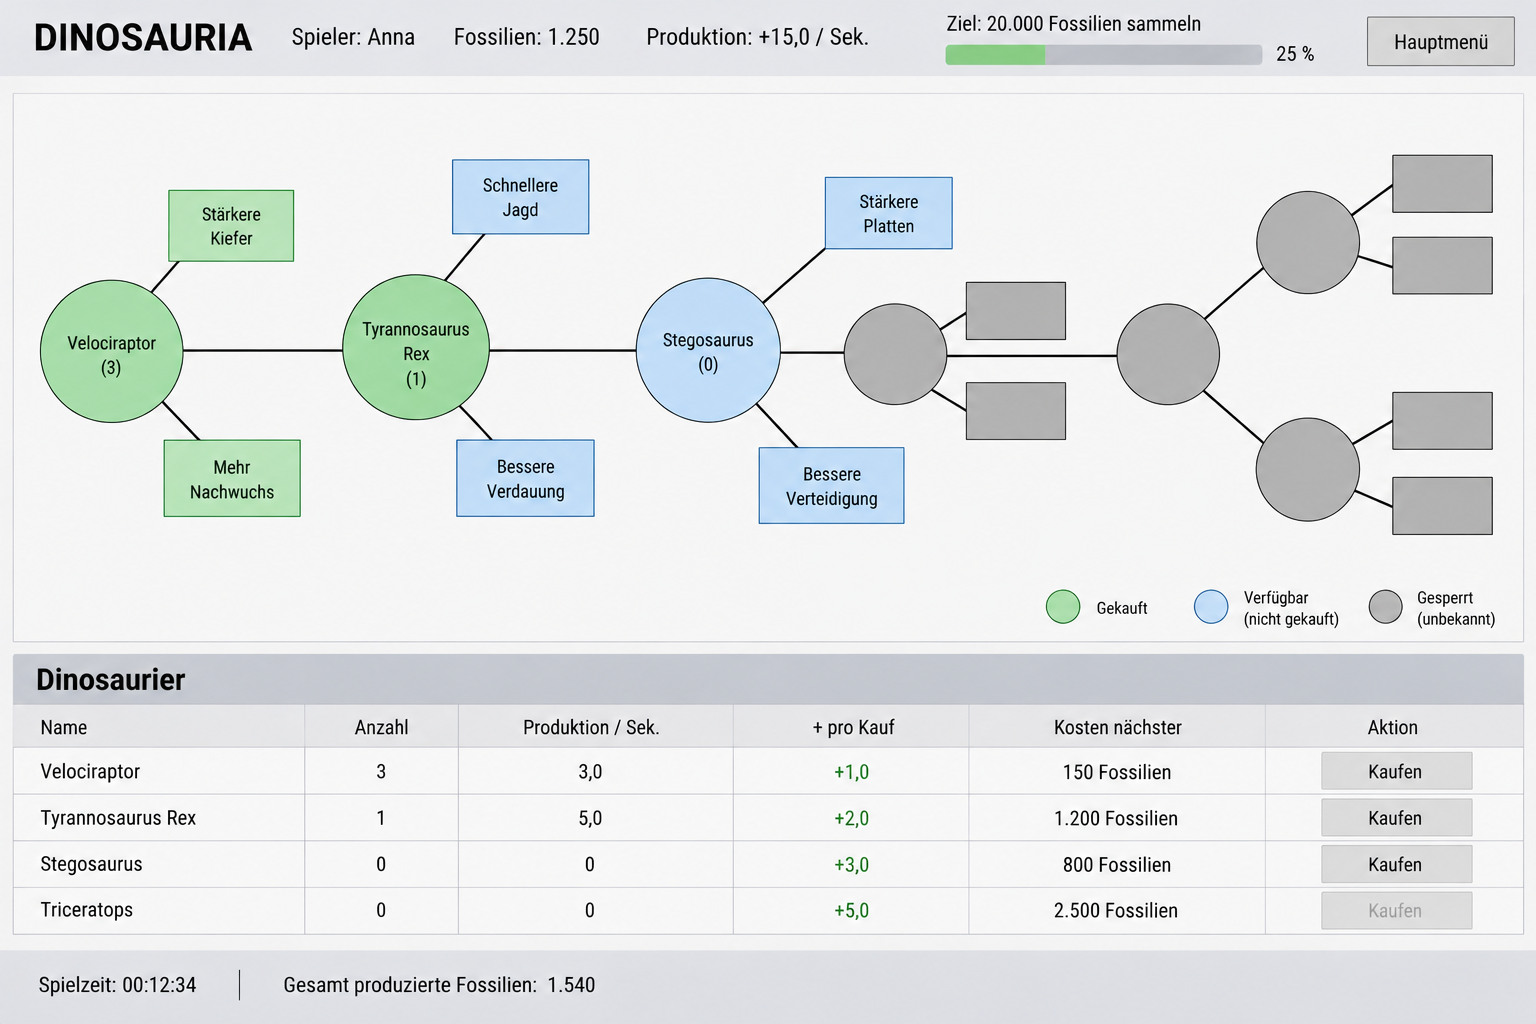
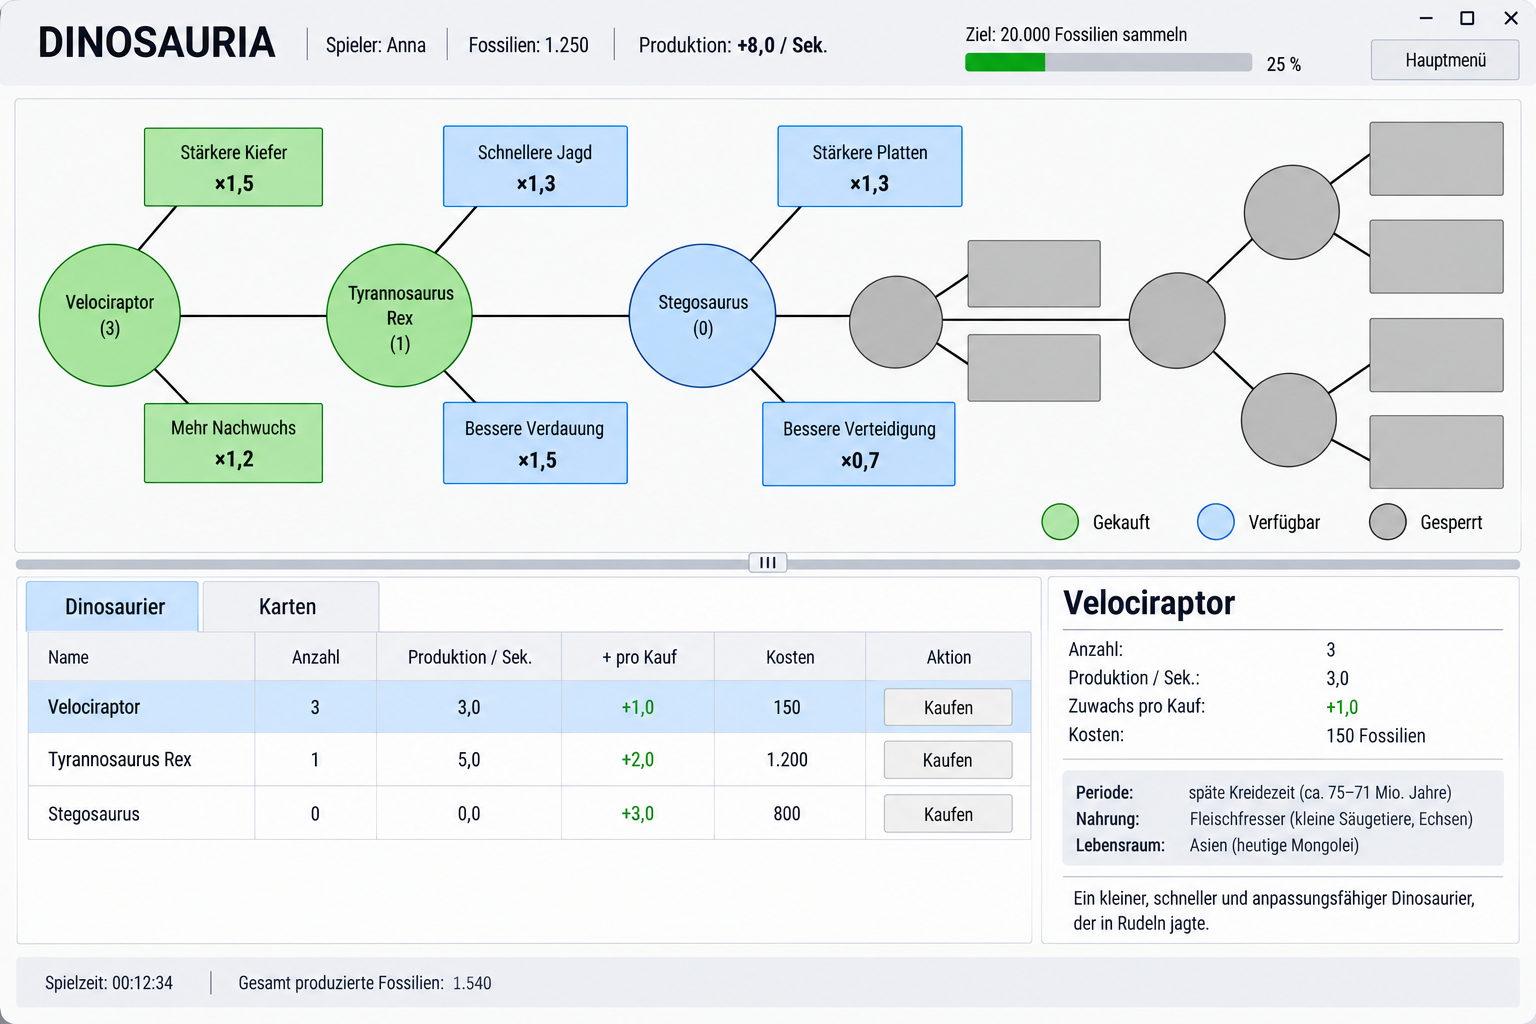
Dokumentationsänderungen

diff --git a/Dinosauria/docs/Dinosauria_Wireframe_Entwurf.md b/Dinosauria/docs/Dinosauria_Wireframe_Entwurf.md
@@ -57,25 +57,34 @@ Die Spielübersicht besteht aus einer Kopfzeile, dem Spielziel, dem Spielfeld, d
 
 ### 3.3 Dinosaurier-Tabelle
 
-Unter dem Spielfeld befindet sich eine Tabelle. Sie zeigt nur gekaufte Dinosaurierarten sowie freigeschaltete Arten, die gekauft werden können.
+Unterhalb des Spielfelds befindet sich eine Tabelle mit allen freigeschalteten Dinosaurierarten, die bereits gekauft wurden oder zum Kauf verfügbar sind. Gesperrte Arten werden nicht angezeigt.
 
-Spalten: **Name**, **Anzahl**, **aktuelle Produktion pro Sekunde**, **Produktionszuwachs beim Kauf eines weiteren Dinosauriers**, **Kosten des nächsten Exemplars** und die Schaltfläche **„Kaufen“**.
+Die Tabelle enthält folgende Spalten: **Name**, **Anzahl**, **Produktion pro Sekunde**, **Produktionszuwachs beim Kauf eines weiteren Exemplars**, **Kosten des nächsten Exemplars** und die Schaltfläche **„Kaufen“**.
 
-Bei einer noch nicht gekauften Art beträgt die aktuelle Produktion null. Der angezeigte Zuwachs berücksichtigt die aktiven Kartenmultiplikatoren. Der Preis jedes weiteren Exemplars steigt um 15 % gegenüber dem Preis des vorherigen Exemplars.
+Die angezeigte Produktion berücksichtigt bereits alle aktiven Kartenmultiplikatoren. Bei einer freigeschalteten, aber noch nicht gekauften Dinosaurierart beträgt die aktuelle Produktion null. Der angezeigte Produktionszuwachs berücksichtigt ebenfalls die aktiven Kartenmultiplikatoren. Der Preis jedes weiteren Exemplars steigt um 15 % gegenüber dem Preis des vorherigen Exemplars.
 
-### 3.4 Statuszeile
+Rechts neben der Tabelle befindet sich ein Detailbereich, in dem zusätzliche Informationen zum ausgewählten Dinosaurier angezeigt werden: Name, Anzahl, Produktion pro Sekunde, Produktionszuwachs beim Kauf, Kosten des nächsten Exemplars sowie Erdzeitalter, Ernährung, Lebensraum und eine kurze Beschreibung.
+
+### 3.4 Kartentabelle
+
+![Kartentabelle mit Detailbereich zur ausgewählten Karte](a_clean_software_ui_screenshot_mockup_of_a_karten.png)
+*Abbildung 3: Tabelle der Karten*
+
+Die Kartentabelle befindet sich im unteren Bereich des Spielfensters auf der Registerkarte **„Karten“**. Sie wird unabhängig vom Spielfeld dargestellt und ermöglicht den Kauf freigeschalteter Karten. Gesperrte Karten werden in der Tabelle nicht angezeigt.
+
+Die Tabelle enthält folgende Spalten: **Name**, **zugehörige Dinosaurierart**, **Multiplikator**, **Kosten** und **Aktion**. Bereits gekaufte Karten sind entsprechend gekennzeichnet und können nicht erneut gekauft werden. Für verfügbare Karten wird die Schaltfläche **„Kaufen“** angezeigt. Ist das Fossilienguthaben nicht ausreichend, ist die Kaufaktion nicht verfügbar.
+
+Rechts neben der Tabelle befindet sich ein Detailbereich für die ausgewählte Karte. Er zeigt den Namen, die zugehörige Dinosaurierart, den Multiplikator, die Kosten, den Freischaltungs- bzw. Kaufstatus und eine kurze Beschreibung an. Zusätzlich werden Informationen zur zugehörigen Dinosaurierart angezeigt: Erdzeitalter, Ernährung und Lebensraum.
+
+Nach dem Kauf einer Karte werden ihr Status im Spielfeld, die Produktion der zugehörigen Dinosaurierart und die Gesamtproduktion automatisch aktualisiert.
+
+### 3.5 Statuszeile
 
 Am unteren Rand werden die bisherige Spielzeit und die insgesamt produzierten Fossilien angezeigt. Die Gesamtproduktion ist ein kumulierter Wert und wird durch Käufe nicht reduziert.
 
-## 4. Einheitliche Gestaltungsregeln
 
-- Einfache Standard-Steuerelemente ohne dekorative Rahmen oder aufwendige Effekte.
-- Keine Bilder im ersten Wireframe; Dinosaurier und Karten werden durch Kreise und Rechtecke repräsentiert.
-- Klare Beschriftungen und geradlinige Verbindungen auf dem Spielfeld.
-- Die Oberfläche wird mit WPF/XAML umgesetzt.
-
-## 5. Hinweise zur Umsetzung
+## 4. Hinweise zur Umsetzung
 
 Die Abbildungen sind schematische Entwürfe. Beispielnamen, Zahlenwerte und Spielstände dienen nur der Veranschaulichung und sind keine verbindlichen Spieldaten. Die endgültigen Abstände und Größen werden bei der Umsetzung in WPF angepasst.
 
-**Hinweis zu den Abbildungen:** Die Bilddateien müssen zusammen mit dieser Markdown-Datei im selben Ordner abgelegt werden, damit die eingebetteten Abbildungen angezeigt werden.
+

diff --git a/Dinosauria/docs/projektauftrag.md b/Dinosauria/docs/projektauftrag.md
@@ -34,14 +34,14 @@ Ihr Projekt sollte die folgenden Hauptbestandteile umfassen:
 | Tag | Aufgabe | Fälligkeit / Deadline |
 | :--- | :--- | :--- |
 | **Freitag** | **Mitteilung der Projektidee** | Bis spätestens **Freitag** teilen Sie mir Ihr gewähltes Projektthema mit. |
-| **(Über)nächste Woche (?)** | **Abschluss des Projekts** | Bereitstellung des fertigen Projekts auf GitHub. |
-| **(Über)nächste Woche (?)** | **Kurzpräsentation** | Am **letzten Tag** stellen Sie Ihr Projekt der Gruppe in ca. 5 bis 7 Minuten vor. Präsentieren Sie die Funktionalität und erläutern Sie kurz Ihre Architektur (Domänenmodell und GUI-Ansatz). |
+| **Donnerstag 5.11.** | **Abschluss des Projekts** | Bereitstellung des fertigen Projekts auf GitHub. |
+| **Freitag 6.11.** | **Kurzpräsentation** | Am **letzten Tag** stellen Sie Ihr Projekt der Gruppe in ca. 5 bis 7 Minuten vor. Präsentieren Sie die Funktionalität und erläutern Sie kurz Ihre Architektur (Domänenmodell und GUI-Ansatz). |
 
 ---
 
 ## Rahmenbedingungen
 
-* Im Rahmen des Projekts findet täglich ein kurzes **Stand-up-Meeting** statt. Dabei berichtet jeder Teilnehmer über die Arbeit des Vortags, benennt aktuelle Probleme oder Hindernisse und stellt den Plan für den aktuellen Tag vor.  
+* Im Rahmen des Projekts findet täglich ein kurzes **Stand-up-Meeting** statt. Dabei berichtet jeder Teilnehmer über die Arbeit des Vortags, benennt aktuelle Probleme oder Hindernisse und stellt den Plan für den aktuellen Tag vor (1. Was wurde fertiggestellt, 2. was ist für den Folgetag geplant, 3. welche Probleme gab es).  
 * Das Projekt wird auf **GitHub** veröffentlicht. Der entsprechende Link zum Repository wird dem Trainer zur Verfügung gestellt. Bitte zuästzlich Lösung als ZIP-Archiv mit dem gewohnten Namensschema (`Nachname-Vorname-WPF-Abschlussprojekt.zip`) einreichen.
 
 ---
